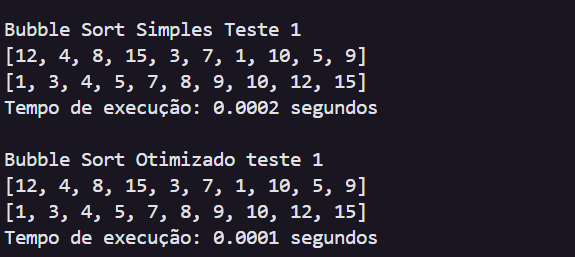
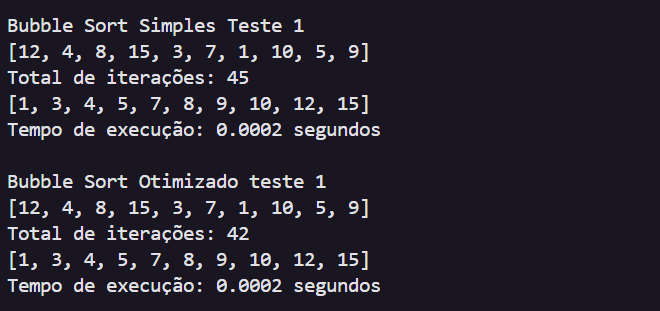
adicionando iteraçẽos

Changed region(s): [[0.0, 0.0311, 0.68, 0.4669], [0.0, 0.5603, 0.6504, 0.965], [0.5617, 0.7471, 0.5913, 0.7782]]

diff --git a/main.py b/main.py
@@ -26,7 +26,7 @@ if __name__ == "__main__":
     print(f"Tempo de execução: {fim - inicio:.4f} segundos")
     
     #segundo teste**********************************************************
-    segundoTeste = [25, 17, 31, 13, 2, 29, 8, 19, 7, 11, 6]
+    segundoTeste = [1, 2, 3, 6, 2, 8, 9, 7, 11, 19]
     print("\nBubble Sort Simples Teste 2")
     print(segundoTeste)
     inicio = time.time()
@@ -35,7 +35,7 @@ if __name__ == "__main__":
     
     print(f"Tempo de execução: {fim - inicio:.4f} segundos")
     
-    segundoTeste = [25, 17, 31, 13, 2, 29, 8, 19, 7, 11, 6]
+    segundoTeste = [1, 2, 3, 6, 2, 8, 9, 7, 11, 19]
     print("\nBubble Sort otimizado teste 2")
     print(segundoTeste)
     inicio = time.time()
@@ -45,7 +45,7 @@ if __name__ == "__main__":
     print(f"Tempo de execução: {fim - inicio:.4f} segundos")
     
     #terceiro teste************************************************
-    terceiroTeste = [102, 57, 33, 88, 74, 91, 45, 60, 12, 80, 23, 39, 5, 67, 49, 1, 14, 72, 95, 81]
+    terceiroTeste = [ 74, 91, 45, 60, 12, 80, 23, 39, 5, 67, 49, 1, 14, 72, 95, 81]
     print("\nBubble Sort Simples Teste 3")
     print(terceiroTeste)
     inicio = time.time()
@@ -54,7 +54,7 @@ if __name__ == "__main__":
    
     print(f"Tempo de execução: {fim - inicio:.4f} segundos")
     
-    terceiroTeste = [102, 57, 33, 88, 74, 91, 45, 60, 12, 80, 23, 39, 5, 67, 49, 1, 14, 72, 95, 81]
+    terceiroTeste = [74, 91, 45, 60, 12, 80, 23, 39, 5, 67, 49, 1, 14, 72, 95, 81]
     print("\nBubble Sort otimizado teste 3")
     print(terceiroTeste)
     inicio = time.time()

diff --git a/bubbleSortOtimizado.py b/bubbleSortOtimizado.py
@@ -2,13 +2,17 @@
 
 def bubble_sort_optimized(lista):
     n = len(lista)
+    total_iteracoes = 0  # contador de iterações
     for i in range(n - 1):
         swapped = False
         for j in range(n - i - 1):
+            total_iteracoes += 1  # incrementa a cada iteração
             if lista[j] > lista[j + 1]:
                 lista[j], lista[j + 1] = lista[j + 1], lista[j]
                 swapped = True
         if not swapped:
             break
+    print("Total de iterações:", total_iteracoes)
     return lista
+
 

diff --git a/bubbleSort.py b/bubbleSort.py
@@ -3,10 +3,14 @@ import time
 
 def bubble_sort(lista):
     n = len(lista)
+    total_iteracoes = 0  # contador de iterações
     for i in range(n - 1):
         for j in range(n - i - 1):
+            total_iteracoes += 1  # incrementa a cada iteração
             if lista[j] > lista[j + 1]:
                 lista[j], lista[j + 1] = lista[j + 1], lista[j]
+
+    print("Total de iterações:", total_iteracoes)
     return lista
 
 
